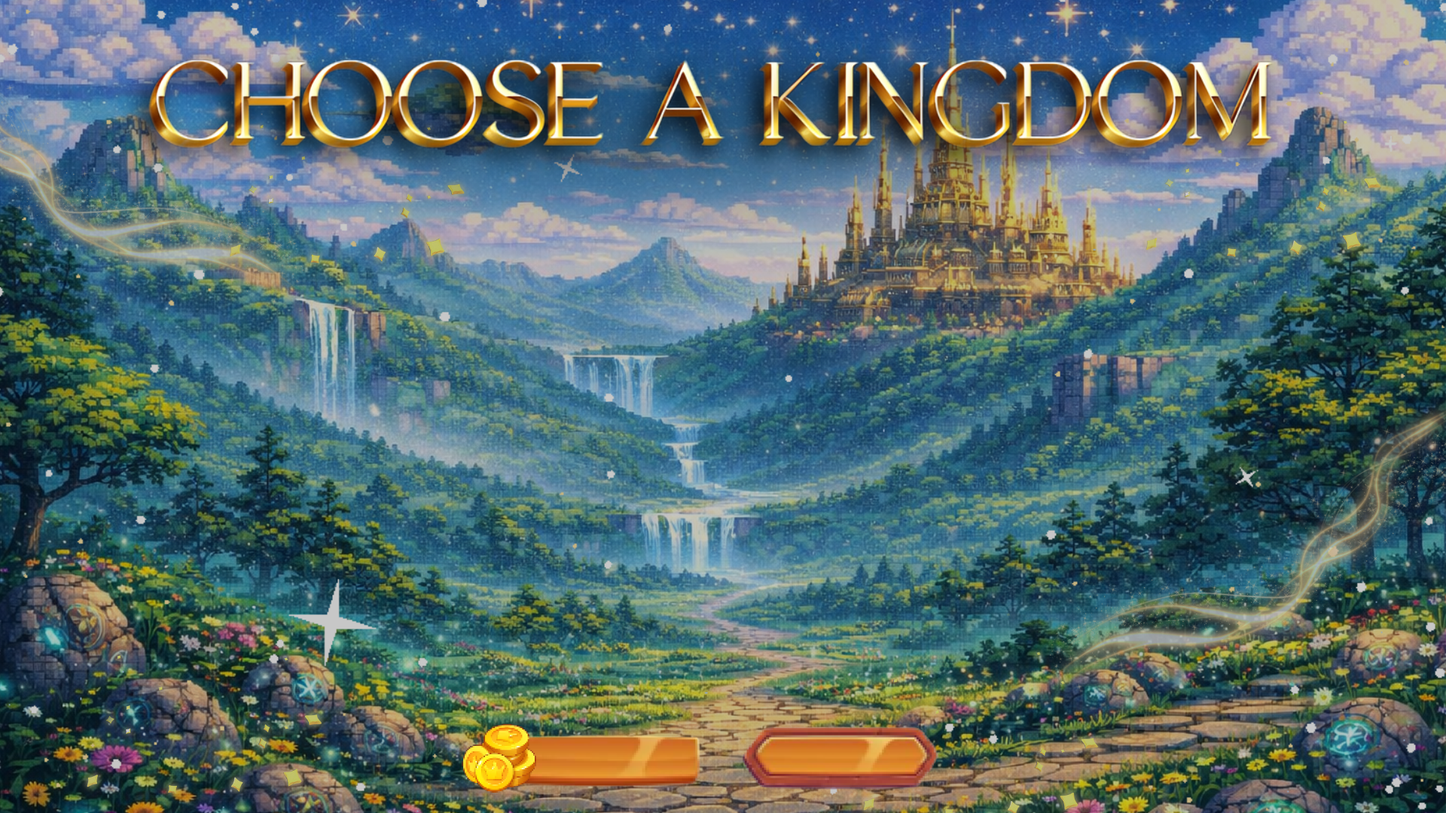
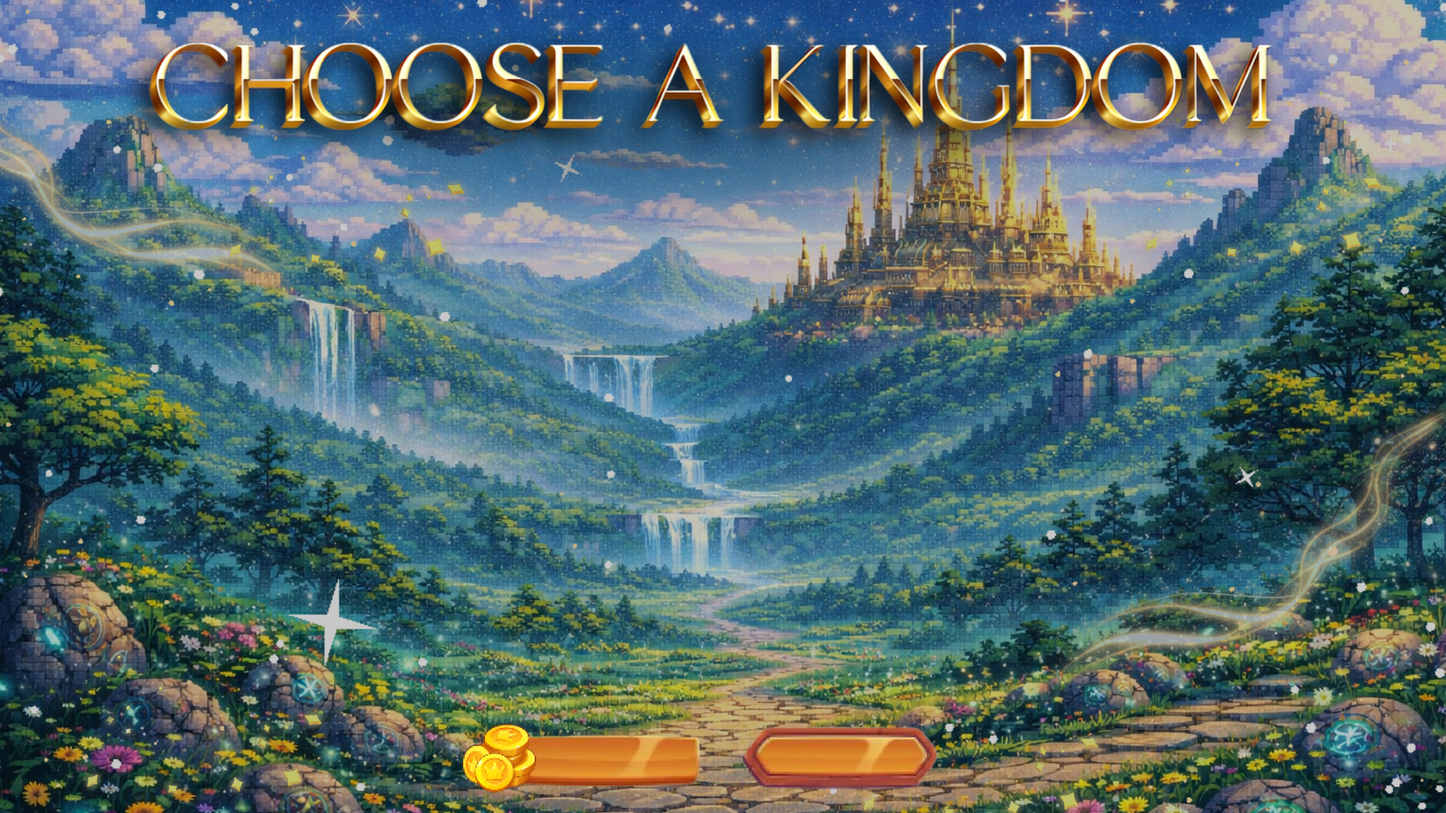
override background

Changed region(s): [[0.0938, 0.0306, 0.875, 0.2139]]

diff --git a/src/core/MapSelect.java b/src/core/MapSelect.java
@@ -1,8 +1,9 @@
 package core;
 
-import java.awt.*;
-import javax.swing.*;
 import gameobjects.Player;
+import java.awt.*;
+import java.awt.event.*;
+import javax.swing.*;
 
 public class MapSelect extends Selection {
 
@@ -54,14 +55,89 @@ public class MapSelect extends Selection {
         wrapper.add(panel);
         return wrapper;
     }
-
+    
     public void onNext(){
         getGamePanel().startLevel(selectedPlayer);
     }
 
+    @Override
+    public JPanel createBackground() {
+        JPanel background = new JPanel(new BorderLayout()) {
+            private final Image img = new ImageIcon("assets/mapSelectBackground.png").getImage();
 
+            @Override
+            protected void paintComponent(Graphics g) {
+                super.paintComponent(g);
+                g.drawImage(img, 0, 0, getWidth(), getHeight(), this);
+            }
+        };
+
+        background.setOpaque(true);
+        background.add(createSelectionButtons(), BorderLayout.CENTER);
+        background.add(createNavButtons(), BorderLayout.SOUTH);
+
+        return background;
+    }
+
+    private JPanel createNavButtons() {
+        JPanel panel = new JPanel(null);
+        panel.setOpaque(false);
+        panel.setPreferredSize(new Dimension(800, 100));
+
+        int btnWidth = 140;
+        int btnHeight = 60;
+        int margin = 20;
+
+        JButton backBtn = null;
+
+        if (onBack != null) {
+            backBtn = createImageButton("assets/backButton.png", btnWidth, btnHeight);
+            backBtn.addActionListener(e -> onBack.run());
+            panel.add(backBtn);
+        }
+
+        final JButton nextBtn = createImageButton("assets/nextButton.png", btnWidth, btnHeight);
+        nextBtn.addActionListener((ActionEvent e) -> {
+            if (!validateSelection()) {
+                JOptionPane.showMessageDialog(MapSelect.this, "Please select a character!");
+                return;
+            }
+            onNext();
+        });
+
+        panel.add(nextBtn);
+
+        JButton finalBackBtn = backBtn;
+
+        panel.addComponentListener(new ComponentAdapter() {
+            @Override
+            public void componentResized(ComponentEvent e) {
+
+                int w = panel.getWidth();
+                int h = panel.getHeight();
+
+                if (finalBackBtn != null) {
+                    finalBackBtn.setBounds(
+                            margin,
+                            h - btnHeight,
+                            btnWidth,
+                            btnHeight
+                    );
+                }
+
+                nextBtn.setBounds(
+                        w - btnWidth - margin,
+                        h - btnHeight,
+                        btnWidth,
+                        btnHeight
+                );
+            }
+        });
+
+        return panel;
+    }
 
     public boolean validateSelection() {
-        return lireo.isSelected()   || hathoria.isSelected()  || adamya.isSelected() || sapiro.isSelected() ||mineave.isSelected();
+        return lireo.isSelected()   || hathoria.isSelected()  || adamya.isSelected() || sapiro.isSelected() || mineave.isSelected();
     }
 }

diff --git a/src/core/Selection.java b/src/core/Selection.java
@@ -4,12 +4,10 @@ import java.awt.*;
 import java.awt.event.*;
 import javax.swing.*;
 
-import gameobjects.Player;
-
 public abstract class Selection extends JPanel {
 
     private final GamePanel gamePanel;
-    private final Runnable onBack;
+    protected final Runnable onBack;
 
     public Selection(GamePanel gamePanel, Runnable onBack) {
         this.gamePanel = gamePanel;
@@ -99,7 +97,7 @@ public abstract class Selection extends JPanel {
 
     protected abstract void onNext();
 
-    private JButton createImageButton(String path, int width, int height) {
+    public JButton createImageButton(String path, int width, int height) {
 
         ImageIcon icon = new ImageIcon(path);
         Image scaled = icon.getImage().getScaledInstance(width, height, Image.SCALE_SMOOTH);
